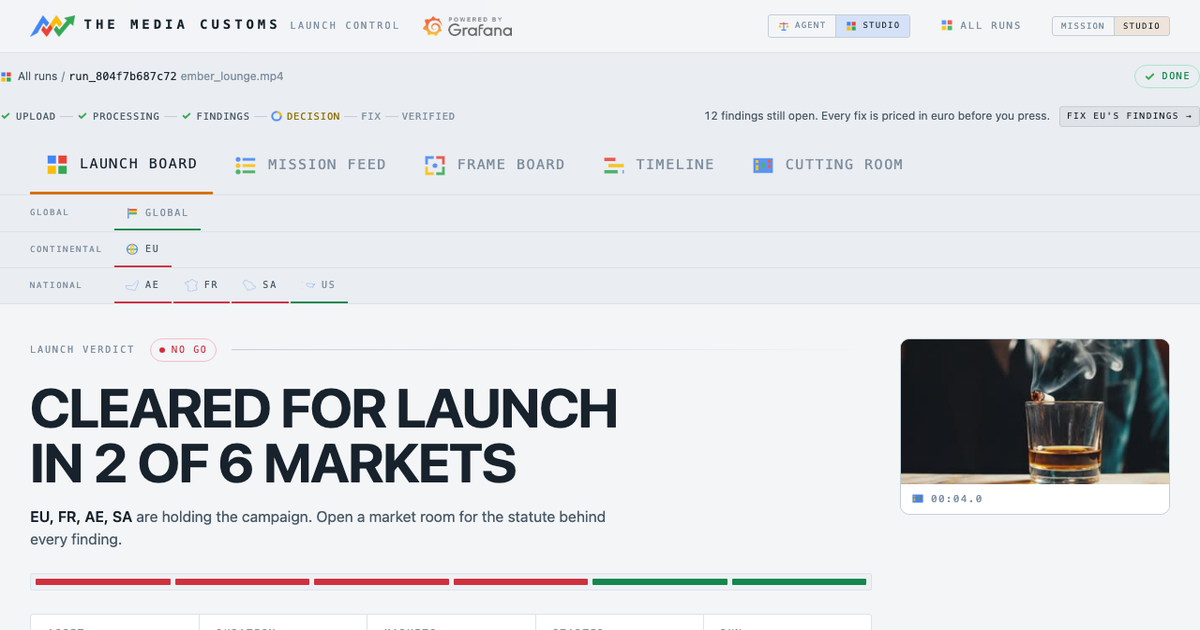
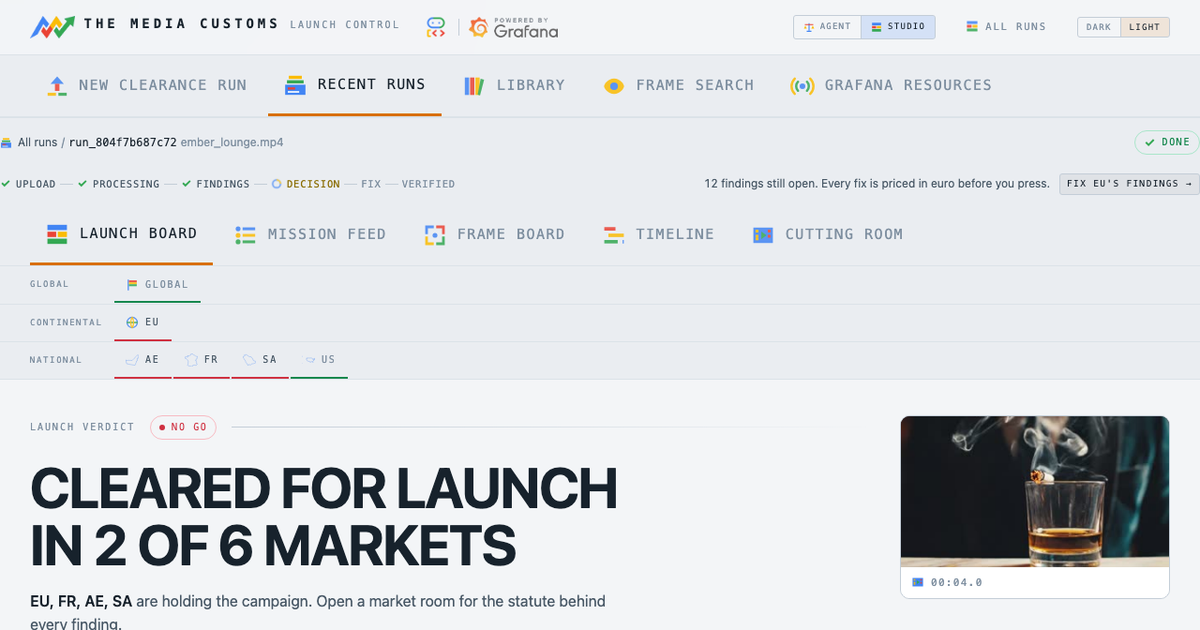
docs: the social card is the console as it is now, and is not squashed
The card a pasted link renders was shot on 5 September, before the Agent
Builder mark joined the header, before the theme buttons stopped saying
Mission and Studio, and before the console tabs existed -- so anyone
opening the link from a post met a console that did not match its own
preview.

Reshot from the live service. And shot at Open Graph's own aspect this
time: 1280x672 scales to 1200x630, where the old 1280x700 was resized to
the same box and compressed every line of type by a tenth, which is
visible in a headline that size.

diff --git a/scripts/make_screenshots.py b/scripts/make_screenshots.py
@@ -23,7 +23,7 @@ from pathlib import Path
 ROOT = Path(__file__).resolve().parents[1]
 sys.path.insert(0, str(ROOT / "scripts"))
 
-from make_tutorial_gifs import OUT, fetch, shot, stage  # noqa: E402
+from make_tutorial_gifs import OUT, WIDTH, fetch, shot, stage  # noqa: E402
 
 STATIC = ROOT / "src" / "customs" / "static"
 # What the README uses everywhere else, so a new one drops in beside them.
@@ -59,8 +59,13 @@ def main() -> int:
         return stage(fetch(base, path, args.cookie), base, **kw)
 
     jobs = {
-        # the card a pasted link shows: the verdict, at Open Graph's shape
-        "og": (f"/runs/{run}", STATIC / "og.png", (OG_W, OG_H), 700),
+        # the card a pasted link shows: the verdict, at Open Graph's shape.
+        # 1280x672 is Open Graph's own 1.905 aspect at the render width, so
+        # the resize down to 1200x630 is a scale and not a squash -- shooting
+        # 700 tall and resizing to 630 compressed every line of type by a
+        # tenth, which is visible in the headline.
+        "og": (f"/runs/{run}", STATIC / "og.png", (OG_W, OG_H),
+               round(OG_H * WIDTH / OG_W)),
         "mission": (f"/runs/{run}/mission", OUT / "05-mission-feed.png",
                     (SHOT_W, SHOT_H), 950),
         "board": (f"/runs/{run}", OUT / "03-launch-board.png",
